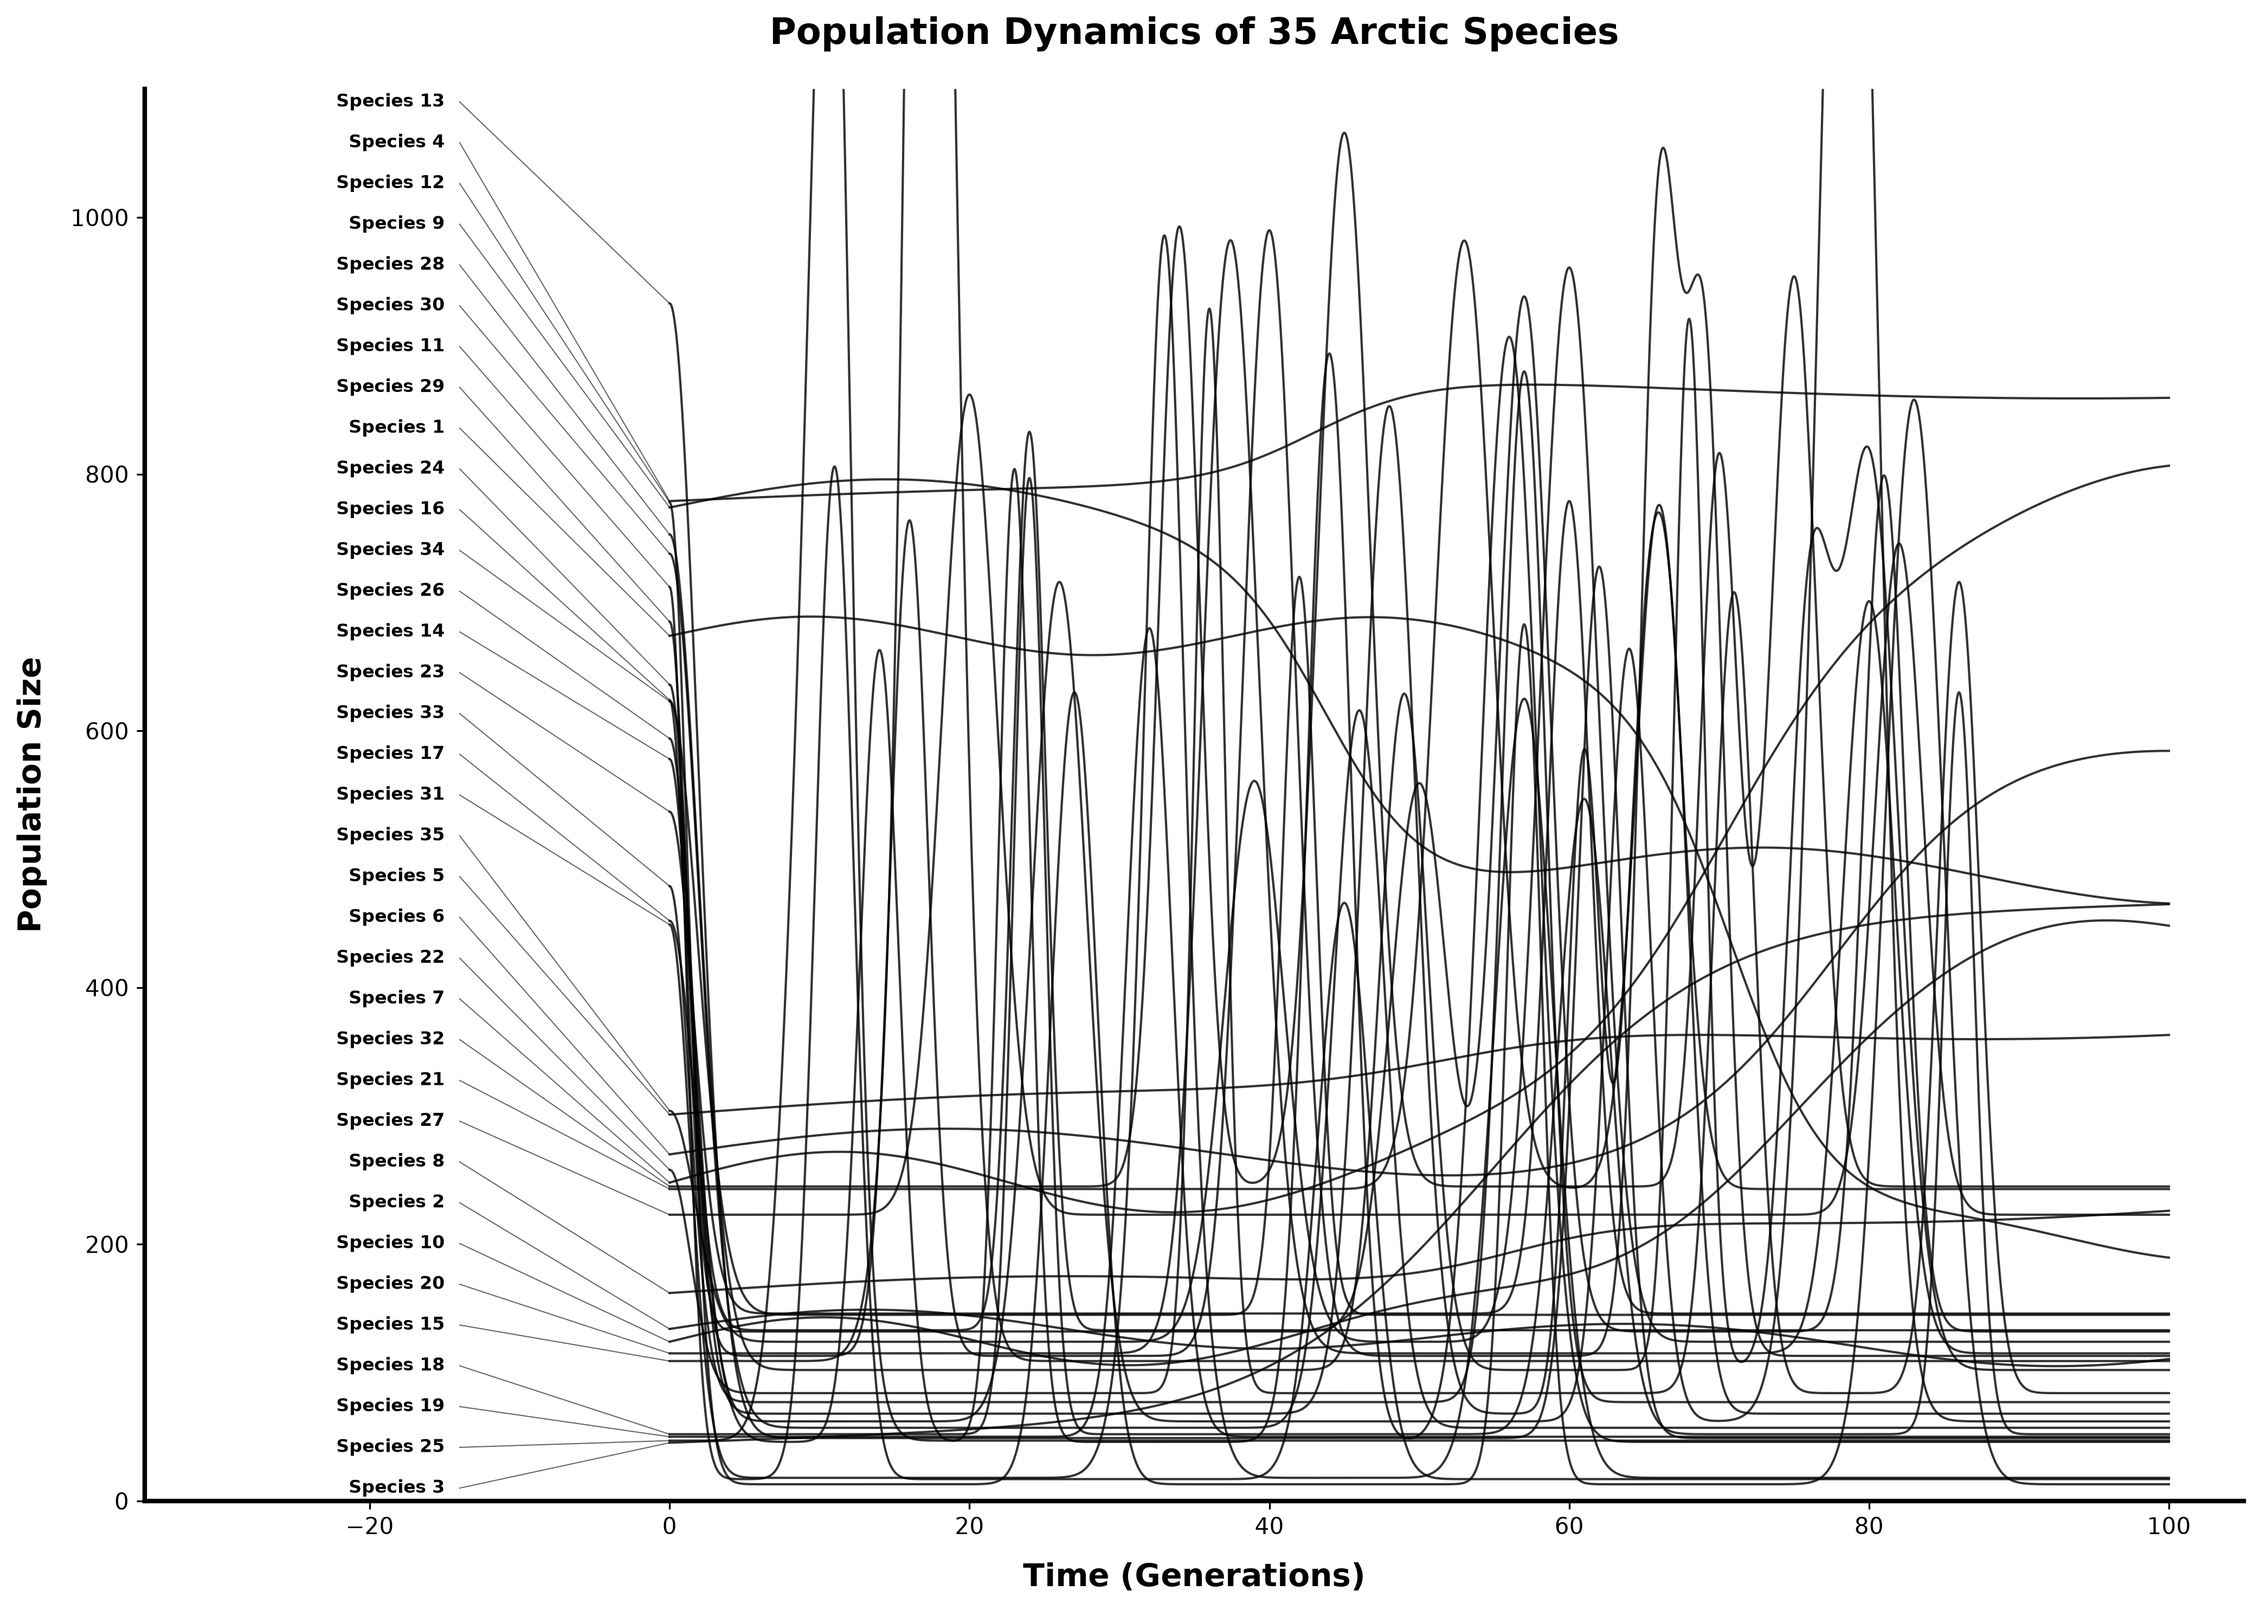
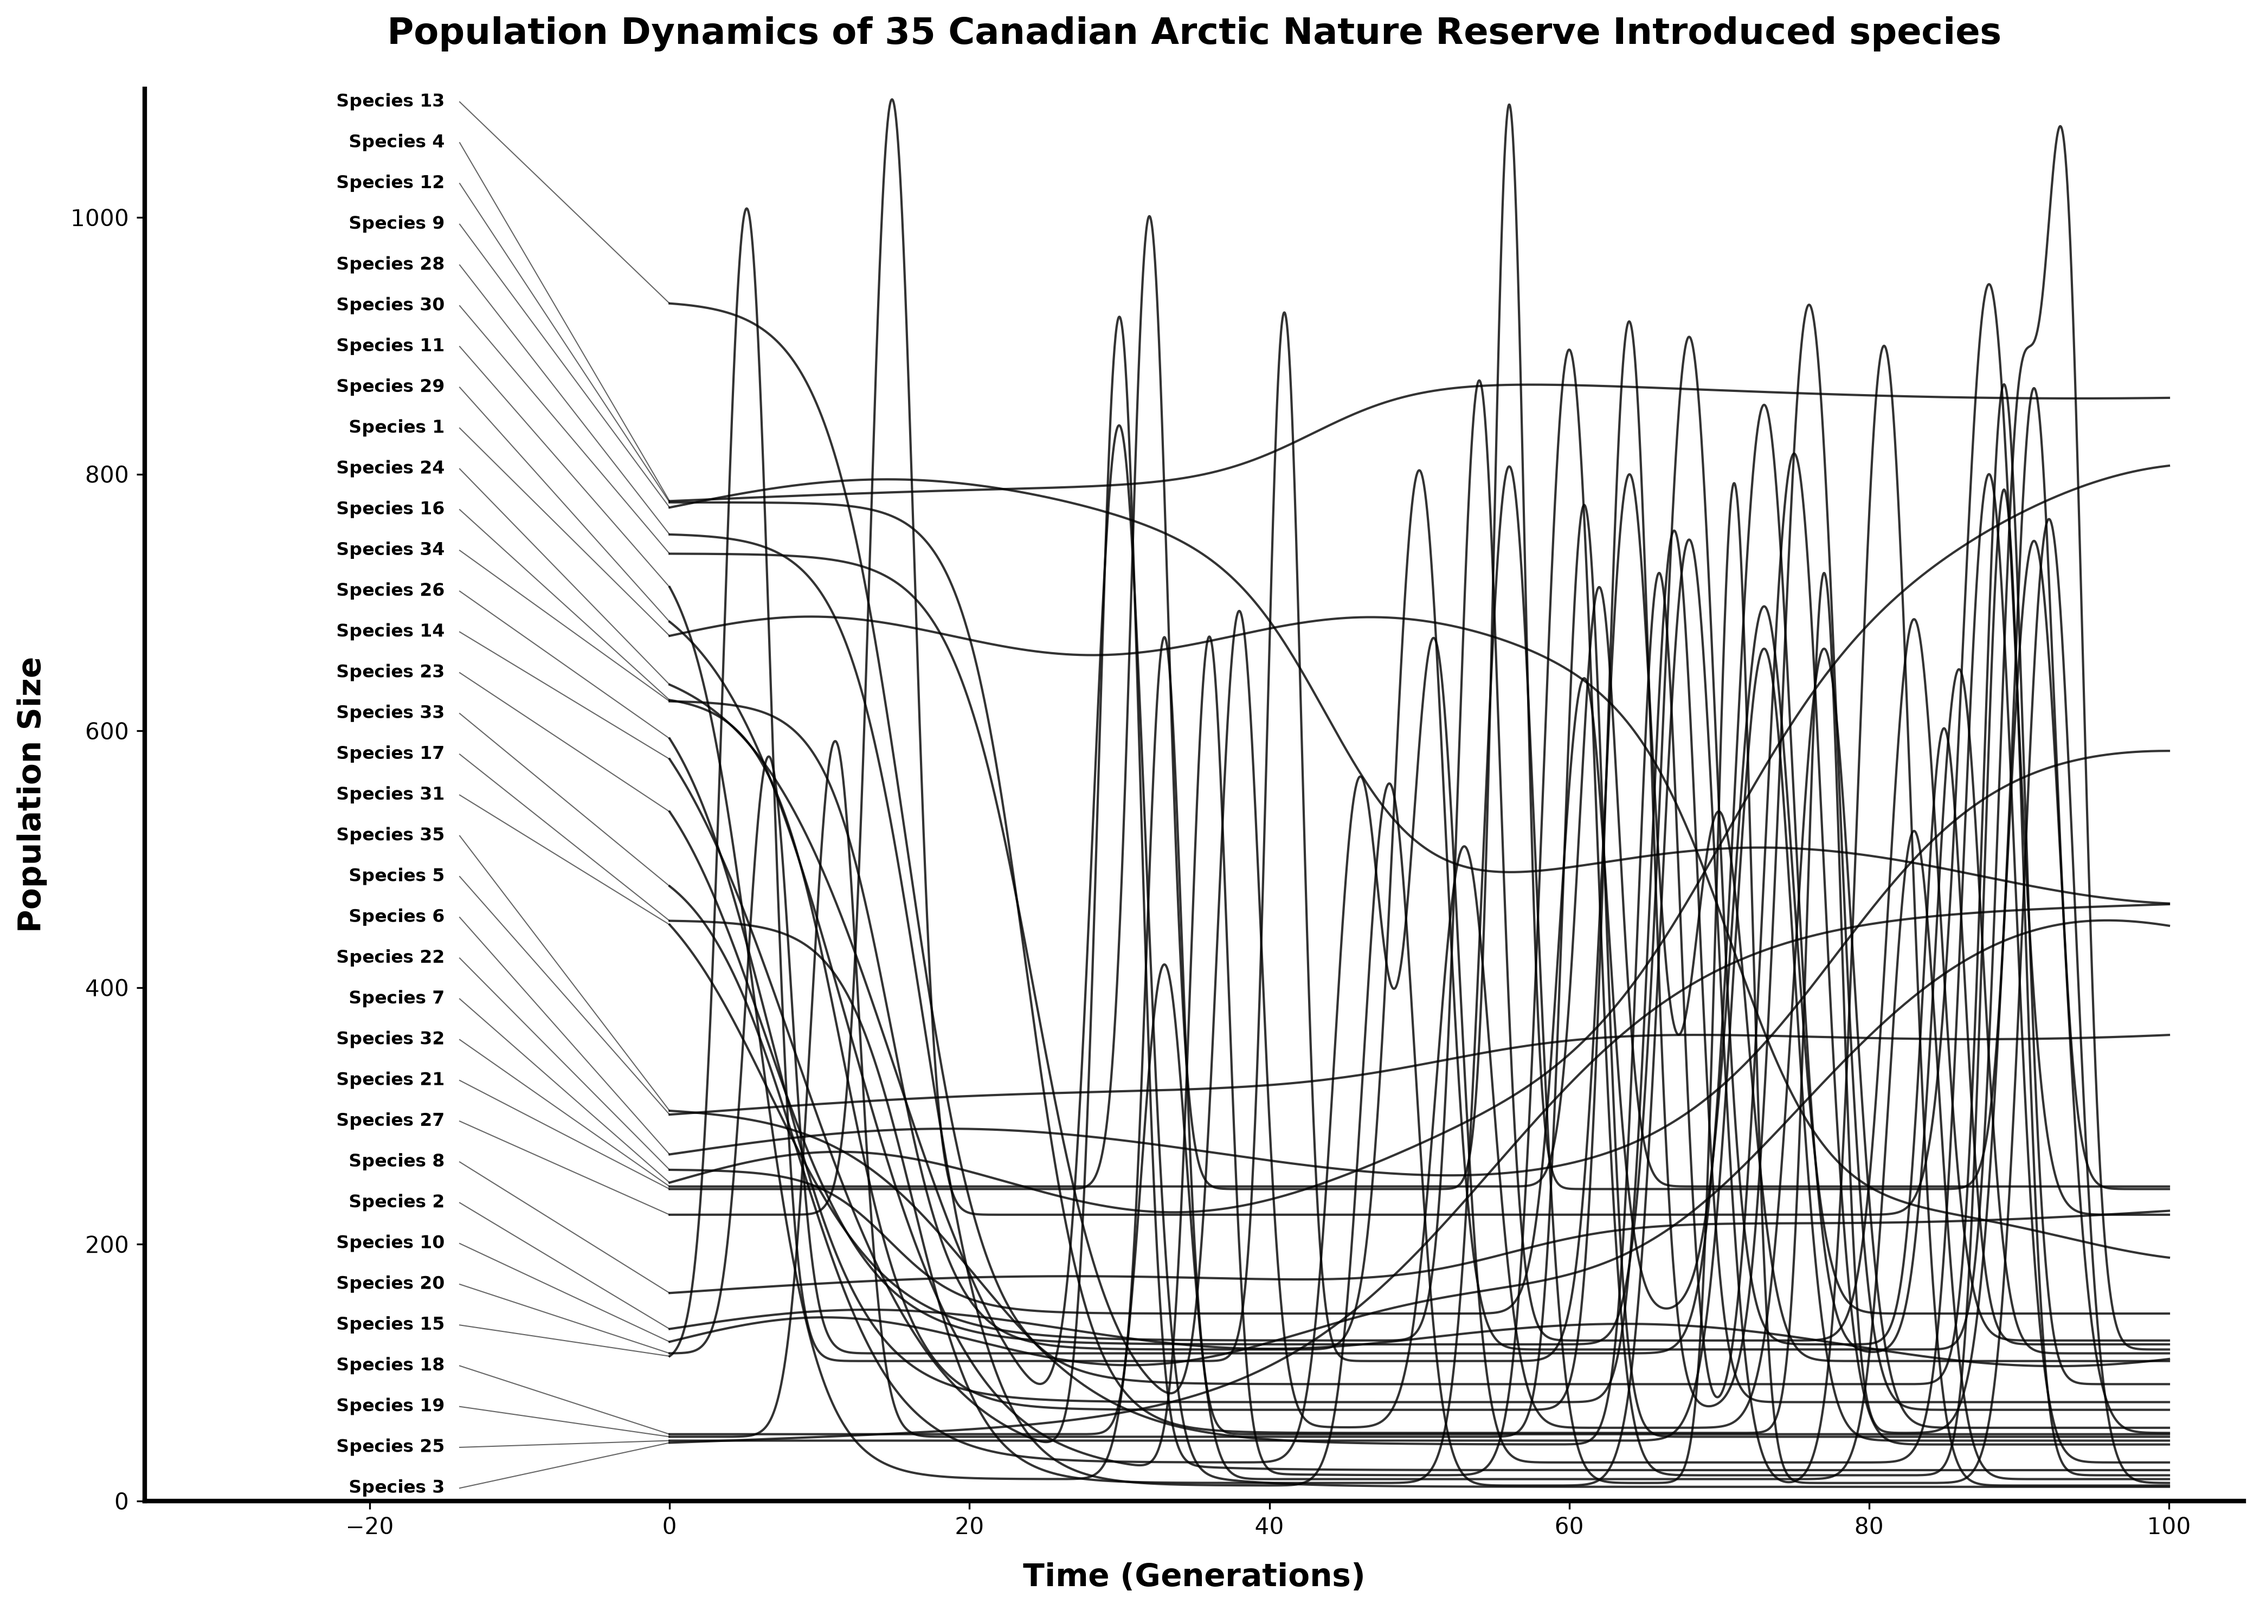
v3 more random start times

diff --git a/generate-graph.py b/generate-graph.py
@@ -51,24 +51,34 @@ for i in range(25):
 
     target_start = float(r_starts[i])
 
-    # If the randomly assigned start value is high, model a "pre-crash" state at t=0
+    # If the randomly assigned start value is high, model a staggered "delayed crash"
     if target_start > 250:
         base_pop = float(np.random.randint(10, 150))
-        pop = np.full_like(t, base_pop, dtype=float)
 
-        # Center a spike at t=0 so the actual starting point matches target_start, then crashes
-        spike_height = target_start - base_pop
-        width = np.random.uniform(2, 8)
-        pop += spike_height * np.exp(-((t - 0) ** 2) / width)
+        # Create a logistic decline so they crash at completely random times (generations 5 to 25)
+        crash_midpoint = np.random.uniform(5, 25)
+        crash_rate = np.random.uniform(0.2, 0.5)
+
+        # Mathematically scale the curve so it perfectly hits `target_start` at t=0
+        height = (target_start - base_pop) * (1 + np.exp(-crash_rate * crash_midpoint))
+        pop = base_pop + height / (1 + np.exp(crash_rate * (t - crash_midpoint)))
+
     else:
         # Standard low starting baseline
         base_pop = target_start
         pop = np.full_like(t, base_pop, dtype=float)
 
-    # 1 to 4 massive exponential reproduction events in the future
-    num_spikes = np.random.randint(1, 5)
+        # 50% chance for low-starters to have a violent early "boom" shortly after introduction
+        if random.random() > 0.5:
+            early_spike = np.random.uniform(5, 15)
+            early_height = np.random.randint(400, 900)
+            early_width = np.random.uniform(2, 6)
+            pop += early_height * np.exp(-((t - early_spike) ** 2) / early_width)
+
+    # 1 to 4 massive exponential reproduction events later in the simulation (post-introduction phase)
+    num_spikes = np.random.randint(1, 4)
     for _ in range(num_spikes):
-        spike_time = np.random.randint(10, 90)
+        spike_time = np.random.randint(30, 95)
         spike_height = np.random.randint(400, 900)
         width = np.random.uniform(2, 8)  # narrowness of the spike
         pop += spike_height * np.exp(-((t - spike_time) ** 2) / width)
@@ -122,7 +132,8 @@ ax.set_xlim(-35, 105)
 ax.set_ylim(0, 1100)
 ax.set_xlabel("Time (Generations)", fontsize=14, fontweight='bold', labelpad=10)
 ax.set_ylabel("Population Size", fontsize=14, fontweight='bold', labelpad=10)
-ax.set_title("Population Dynamics of 35 Arctic Species", fontsize=16, fontweight='bold', pad=20)
+ax.set_title("Population Dynamics of 35 Canadian Arctic Nature Reserve Introduced species", fontsize=16,
+             fontweight='bold', pad=20)
 
 ax.spines['top'].set_visible(False)
 ax.spines['right'].set_visible(False)
